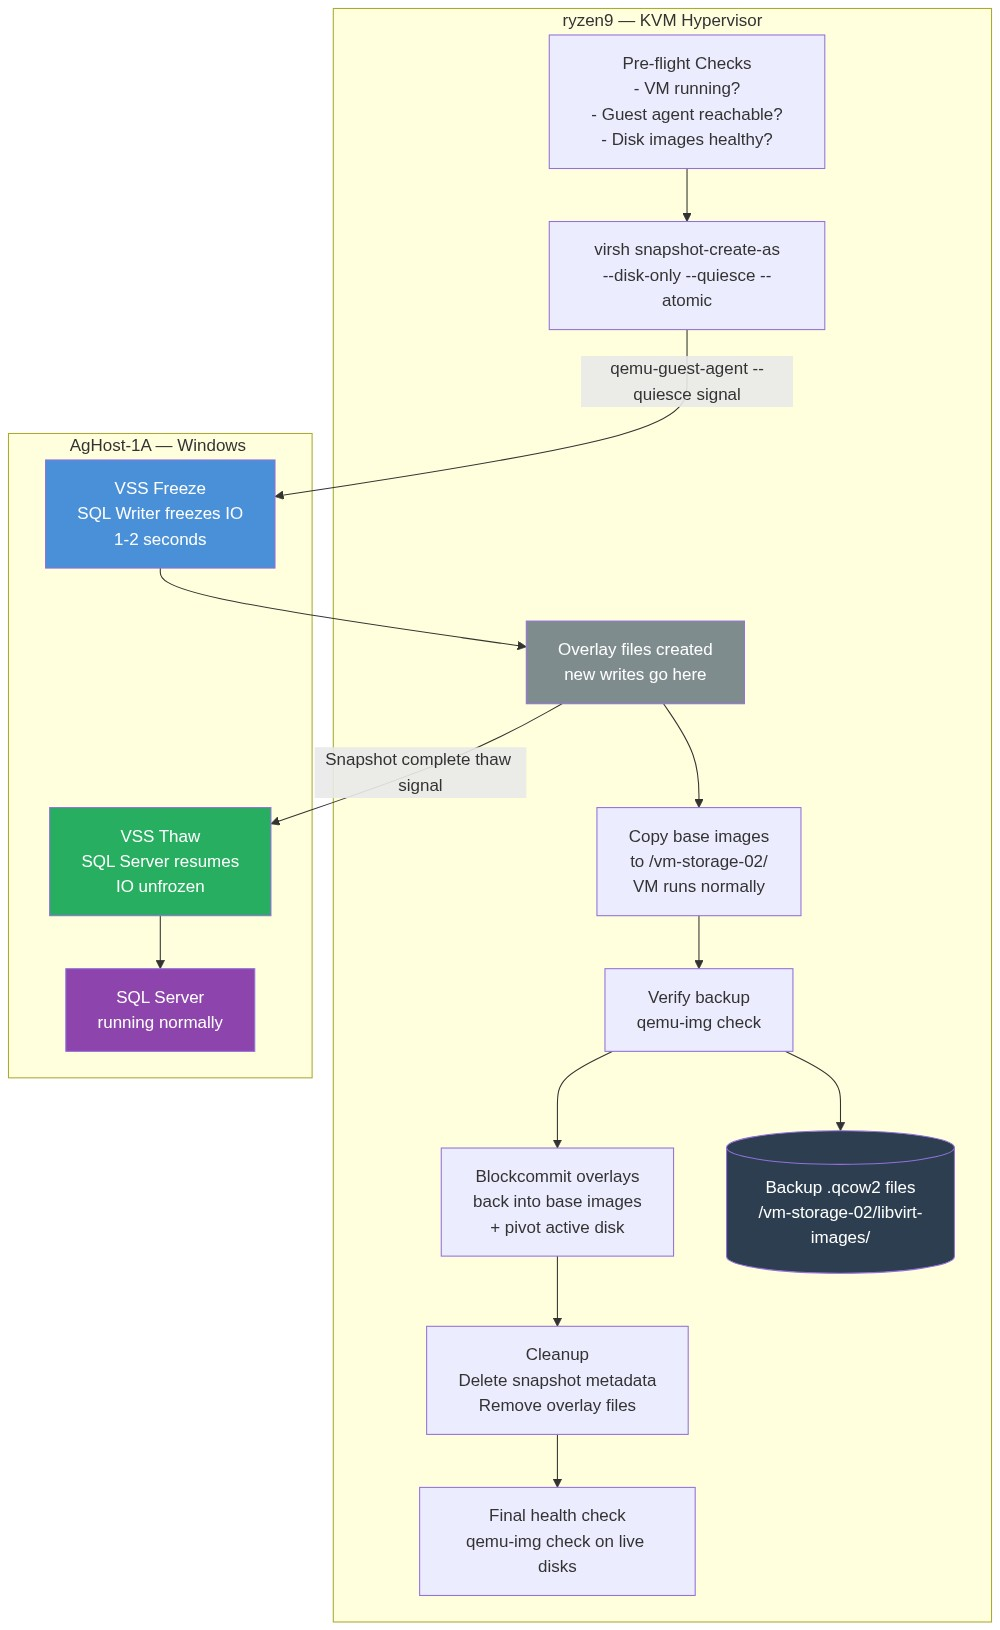
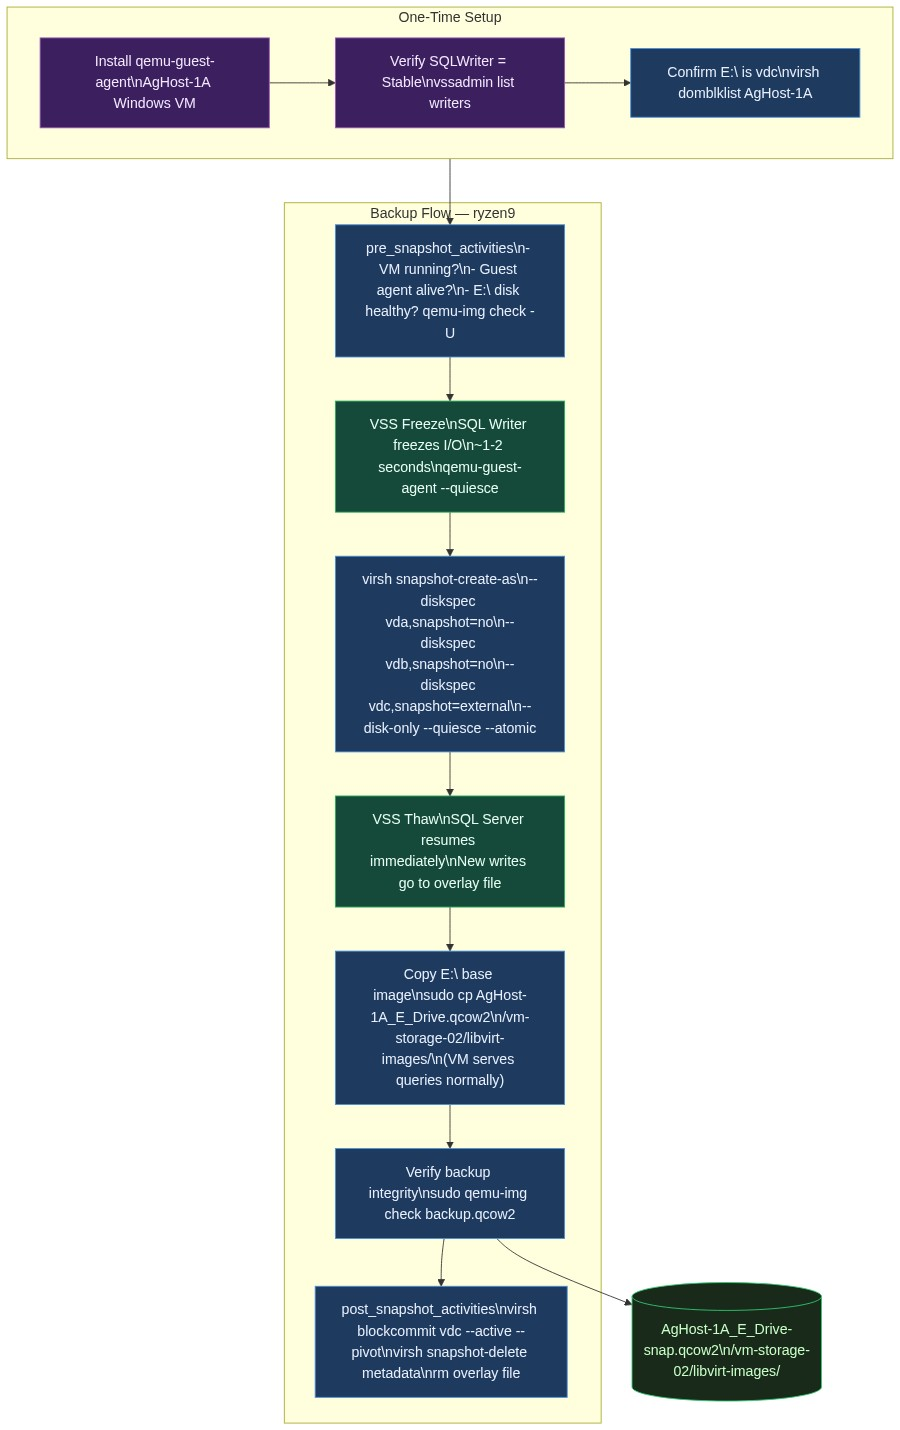
KVM-specific rewrite: 3 flow diagrams, clean overview, remove cloud refs

diff --git a/Backup-Restore/vss-backup-kvm.md b/Backup-Restore/vss-backup-kvm.md
@@ -5,90 +5,75 @@
 
 ## Overview
 
-This guide walks through performing a **VSS (Volume Shadow Copy Service)** snapshot backup of a SQL Server instance running inside a Windows Server virtual machine (`AgHost-1A`) hosted on a KVM hypervisor (`ryzen9` — Ubuntu Desktop).
+This guide covers **VSS (Volume Shadow Copy Service)** snapshot backup and restore of a
+SQL Server instance running on a Windows Server VM (`AgHost-1A`) hosted on a KVM
+hypervisor (`ryzen9` — Ubuntu Desktop), combined with transaction log backups for
+point-in-time recovery on a separate target VM (`SqlPoc`).
+
+### Environment
+
+| Component | Detail |
+|---|---|
+| **KVM Host** | `ryzen9` — Ubuntu Desktop, libvirt / QEMU |
+| **Source VM** | `AgHost-1A` — Windows Server, SQL Server |
+| **Target VM** | `SqlPoc` — separate SQL Server VM for restore practice |
+| **Backup Storage** | `/vm-storage-02/libvirt-images/` on ryzen9 |
+| **SQL drives snapshotted** | `vdc` → `E:\` (all MDF, LDF, T-log backup files) |
+| **Drives excluded** | `vda` → `C:\` (OS), `vdb` → `D:\` (not in use for SQL) |
 
 ### Architecture
 
 ```
-ryzen9 (Ubuntu Desktop - KVM Hypervisor)
+ryzen9 (Ubuntu Desktop — KVM Hypervisor)
+  │
   ├── AgHost-1A  (Windows Server VM — SQL Server)
-  │     ├── vda → C:\ (OS drive)
-  │     ├── vdb → D:\ (SQL data files)
-  │     └── vdc → E:\ (SQL log files + backups)
-  └── /vm-storage-02/libvirt-images/  (Backup destination)
+  │     ├── vda → C:\  OS drive           [snapshot=no]
+  │     ├── vdb → D:\  unused             [snapshot=no]
+  │     └── vdc → E:\  ALL SQL MDF/LDF    [snapshot=external ← only this]
+  │
+  ├── SqlPoc  (Windows Server VM — restore target)
+  │     └── vdd → T:\  backup qcow2 attached temporarily during restore
+  │
+  └── /vm-storage-02/libvirt-images/
+        └── AgHost-1A_E_Drive-<snap>.qcow2   (point-in-time backup)
 ```
-
-### End-to-End Flow
-
-![VSS Snapshot Backup — End-to-End Flow](../images/vss-backup-flow.png)
-
-> **SQL Server freeze window is ~1–2 seconds** regardless of disk size.
-> The copy and blockcommit phases happen entirely while the VM runs normally.
 
 ### How VSS Works with KVM
 
-1. The KVM guest agent (`qemu-guest-agent`) signals Windows inside the VM.
-2. Windows VSS freezes SQL Server I/O (via the SQL Writer VSS provider).
-3. KVM takes a consistent disk snapshot (external snapshot).
-4. VSS thaws SQL Server I/O — normal operations resume.
-5. The snapshot can be mounted, backed up, or exported from the host.
+1. `virsh snapshot-create-as --quiesce` signals `qemu-guest-agent` on AgHost-1A.
+2. Guest agent triggers **Windows VSS** — SQL Server VSS Writer freezes all database I/O.
+3. KVM creates an **external overlay** for `vdc` (E:\) — base image is now frozen.
+4. VSS thaws — SQL Server resumes in ~1–2 seconds; new writes go to the overlay.
+5. The frozen base image is copied to backup storage while the VM runs normally.
+6. The overlay is merged back (blockcommit) and removed — disks return to original state.
 
-### Snapshot vs. Backup — What Is Actually Fast?
+### Key Concept: What Is Actually Instant vs. What Takes Time
 
-> ⚠ **Common misconception:** "Snapshot backup is fast."
->
-> The **snapshot creation is instant** (~1–2 seconds). The **data copy is not** — and the
-> two are separate phases. Understanding this distinction is critical.
+> The **snapshot creation is ~1–2 seconds** (SQL Server freeze window).
+> The **data copy** is proportional to disk size and storage speed — it runs while
+> the VM is fully online.
 
 | Phase | Duration | SQL Server state |
 |---|---|---|
 | VSS freeze | ~milliseconds | ❄ I/O suspended |
-| Overlay file creation (the actual snapshot) | ~1 second | ❄ I/O suspended |
+| Overlay creation (`vdc` only) | ~1 second | ❄ I/O suspended |
 | VSS thaw — SQL Server resumes | ~milliseconds | ✅ Fully online |
-| Copy base images to backup destination | **Minutes to hours** (proportional to disk size) | ✅ Fully online |
-| Blockcommit + cleanup | 1–2 minutes | ✅ Fully online |
+| Copy E:\ base image to backup storage | ~12 min (57G HDD) | ✅ Fully online |
+| Blockcommit overlay → base + cleanup | ~2 min | ✅ Fully online |
 
-The copy phase for AgHost-1A (112G across 3 disks, spinning disk at ~75 MB/s):
+---
 
-| Drive | Size | Copy time (Run 3) |
-|---|---|---|
-| C (`vda`) | 37 G | ~8 min |
-| D (`vdb`) | 18 G | ~4 min |
-| E (`vdc`) | 57 G | ~14 min |
-| **Total** | **112 G** | **~28 min total** |
+### Backup Flow
 
-**SQL Server was frozen for ~1–2 seconds.** The remaining 26+ minutes the VM ran
-normally and served queries while the copy happened in the background on the host.
+![VSS Backup Flow](../images/vss-backup-flow.png)
 
-The copy speed depends entirely on storage throughput:
+### Restore Flow
 
-| Storage type | Expected throughput | 112G copy time |
-|---|---|---|
-| Spinning disk (HDD) | ~75–120 MB/s | 15–25 min |
-| SSD (SATA) | ~400–500 MB/s | 4–5 min |
-| NVMe SSD | ~2,000–3,500 MB/s | < 1 min |
-| Network (1 GbE NFS) | ~100–110 MB/s | ~17 min |
+![VSS Restore Flow](../images/vss-restore-flow.png)
 
-### Eliminating the Copy Step — `virsh backup-begin` (Option C)
+### PITR (Point-in-Time Recovery) Flow
 
-Instead of snapshot → copy → blockcommit, libvirt 7.2+ can stream directly to the backup
-destination with native incremental support:
-
-```bash
-# Full backup — streams directly to backup destination, no separate copy step
-virsh backup-begin AgHost-1A --backupxml backup-full.xml
-
-# Subsequent runs — only changed blocks since last checkpoint (much faster)
-virsh backup-begin AgHost-1A --backupxml backup-incremental.xml \
-  --checkpointxml checkpoint.xml
-```
-
-> **POC / Learning note — performance impact:**
-> A one-time full `virsh backup-begin` backup completes and leaves **no residual performance
-> impact** on the VM. The dirty bitmap tracking that enables incremental backups only causes
-> overhead when a **checkpoint is kept active** between backup runs.
-> For a single POC backup with no further incremental runs planned, simply do not create or
-> retain a checkpoint — the VM runs at full speed after the backup completes.
+![VSS PITR Flow](../images/vss-pitr-flow.png)
 
 ---
 
@@ -1681,48 +1666,31 @@ Expected — SqlServerWriter state `[1] Stable`, no suspended requests, all data
 
 ## Restore from VSS Snapshot Backup to SqlPoc
 
-The VSS snapshot qcow2 **is** the full backup — no `BACKUP DATABASE` is needed.
-The snapshot captures raw MDF/LDF files at a VSS-consistent point. T-log backups are
-taken separately on the running AgHost-1A after the snapshot completes, forming the
-roll-forward chain. This mirrors the production EC2/EBS VSS strategy exactly.
+The VSS snapshot qcow2 **is** the full backup — no `BACKUP DATABASE` is needed before
+taking the snapshot. The snapshot captures MDF/LDF files at a VSS-consistent point.
+T-log backups run independently on AgHost-1A and form the roll-forward chain.
 
-### How This Maps to the Production EC2 Strategy
+### Why No `BACKUP DATABASE` Is Needed
 
-| Production (EC2/EBS) | This POC (KVM/qcow2) |
-|---|---|
-| VSS freeze → EBS snapshot → thaw | VSS freeze → qcow2 copy → thaw |
-| `take_txn_logs_backup` on running EC2 | `BACKUP LOG` on running AgHost-1A |
-| Restore EBS volume → attach to new EC2 | Attach qcow2 to SqlPoc as `T:\` |
-| Copy MDF/LDF → SQL Server crash recovery | Copy MDF/LDF → attach DB → crash recovery |
-| Tail-log backup WITH NORECOVERY | Tail-log backup WITH NORECOVERY |
-| Apply T-logs WITH NORECOVERY | Apply T-logs WITH NORECOVERY |
-| RESTORE WITH RECOVERY → ONLINE | RESTORE WITH RECOVERY → ONLINE |
+VSS freezes SQL Server I/O before KVM takes the snapshot. The resulting E:\ qcow2 contains
+MDF/LDF files in an application-consistent state — identical to what a full backup
+produces, but captured at the disk level. SQL Server can attach these files directly and
+run crash recovery to bring them to a clean state.
 
-### The Tail-Log: The Missing Bridge
+### The Tail-Log: The Bridge Between Snapshot and T-Log Chain
 
-After crash recovery the database is **ONLINE** — but T-logs can only be applied to a
-database in **RESTORING** state. The tail-log backup is what bridges the two:
+After crash recovery via `FOR ATTACH`, the database is **ONLINE** at the snapshot LSN.
+T-logs can only be applied to a database in **RESTORING** state. The tail-log backup
+transitions the database from ONLINE → RESTORING so the T-log chain can continue:
 
 ```
-Snapshot (MDF/LDF frozen at LSN X)
-  → copy files to SqlPoc → attach → crash recovery → DB ONLINE at LSN X
-  → BACKUP LOG WITH NORECOVERY  ← tail-log: captures LSN X → puts DB into RESTORING
-  → RESTORE LOG (log1.trn)  WITH NORECOVERY  ← LSN X+1 onward
-  → RESTORE LOG (log2.trn)  WITH NORECOVERY
-  → RESTORE DATABASE WITH RECOVERY → ONLINE at desired LSN
-```
-
-### Architecture
-
-```
-ryzen9 (KVM Host)
-  ├── AgHost-1A  (Source — SQL Server, E:\ holds all MDF/LDF files)
-  ├── SqlPoc     (Target — SQL Server VM for restore/DR practice)
-  └── /vm-storage-02/libvirt-images/AgHost-1A_E_Drive-<snap>.qcow2  (snapshot backup)
-                         │
-                         └─ attached to SqlPoc as T:\ (read-only, temporary)
-                            MDF/LDF copied to SqlPoc local drives
-                            T:\ detached and qcow2 deleted after restore
+E:\ qcow2 attached as T:\ on SqlPoc
+  → Copy MDF/LDF from T:\ to SqlPoc local drives
+  → CREATE DATABASE FOR ATTACH → crash recovery → DB ONLINE at snapshot LSN
+  → BACKUP LOG WITH NORECOVERY   ← tail-log: closes LSN gap, puts DB into RESTORING
+  → RESTORE LOG tlog1.trn WITH NORECOVERY, STOPAT='target'
+  → RESTORE LOG tlog2.trn WITH NORECOVERY, STOPAT='target'
+  → RESTORE DATABASE WITH RECOVERY → DB ONLINE at target timestamp
 ```
 
 ---
@@ -2091,9 +2059,10 @@ echo "Backup qcow2 deleted"
 
 ---
 
-### Production Bugs to Avoid in This POC
+### Common Pitfalls to Avoid
 
-The following bugs are from the production EC2 implementation. This POC avoids all of them:
+The following are real issues seen in SQL Server VSS restore implementations.
+This POC explicitly guards against all of them:
 
 | Bug | Production code | Problem | POC fix |
 |---|---|---|---|
